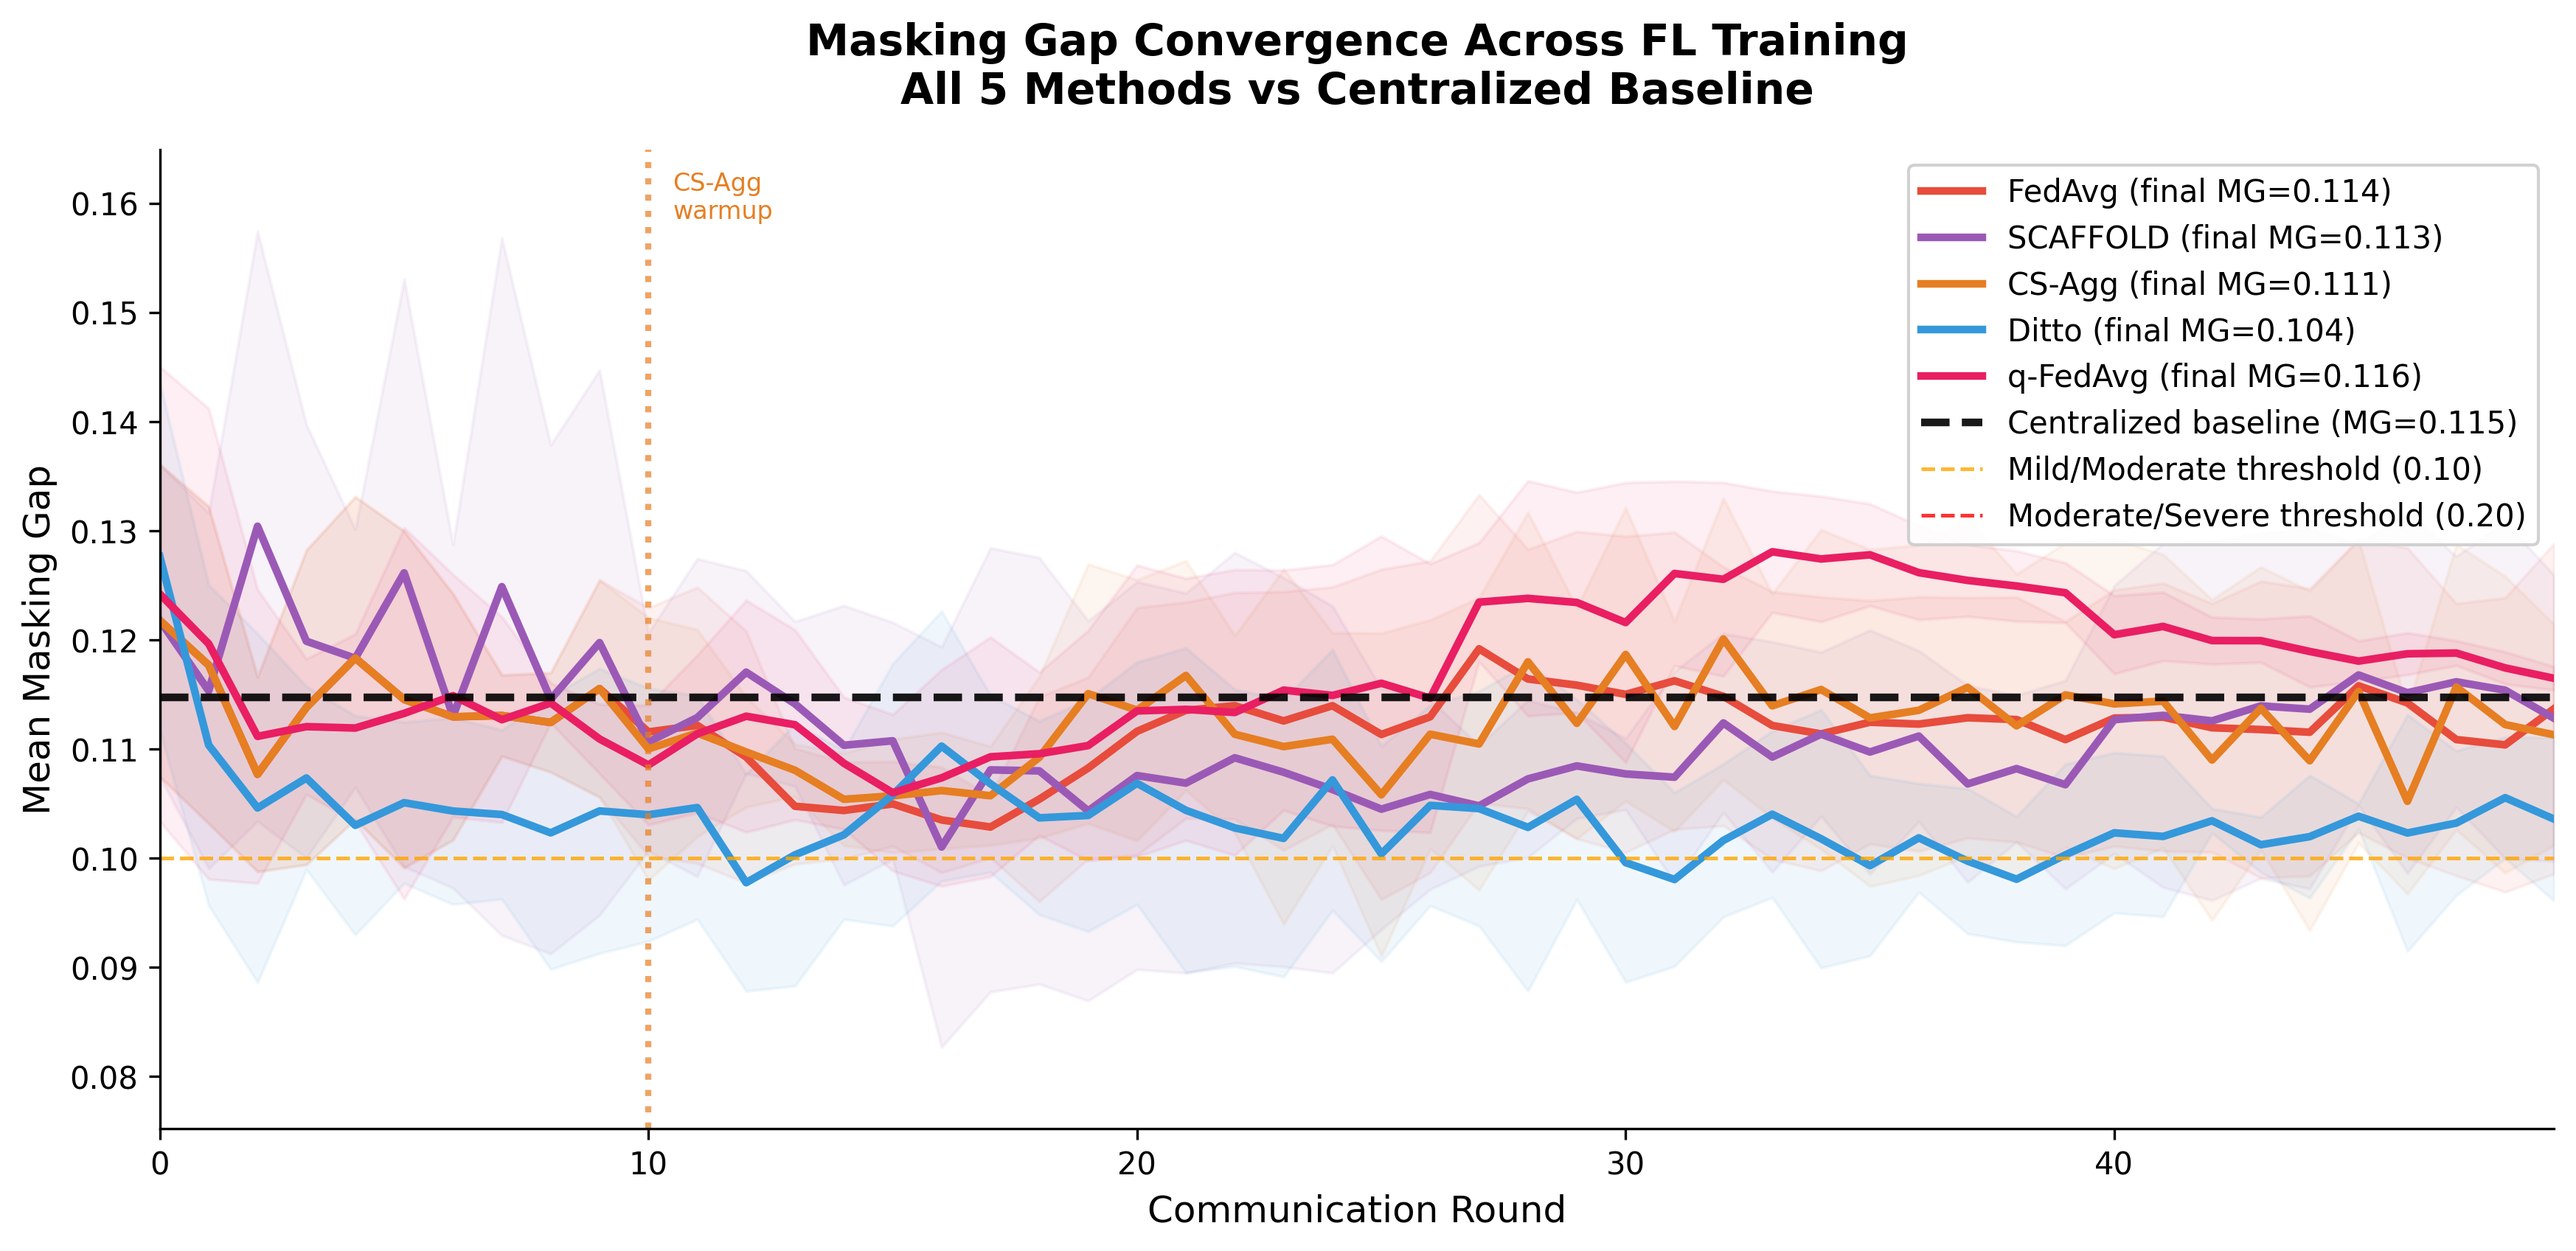
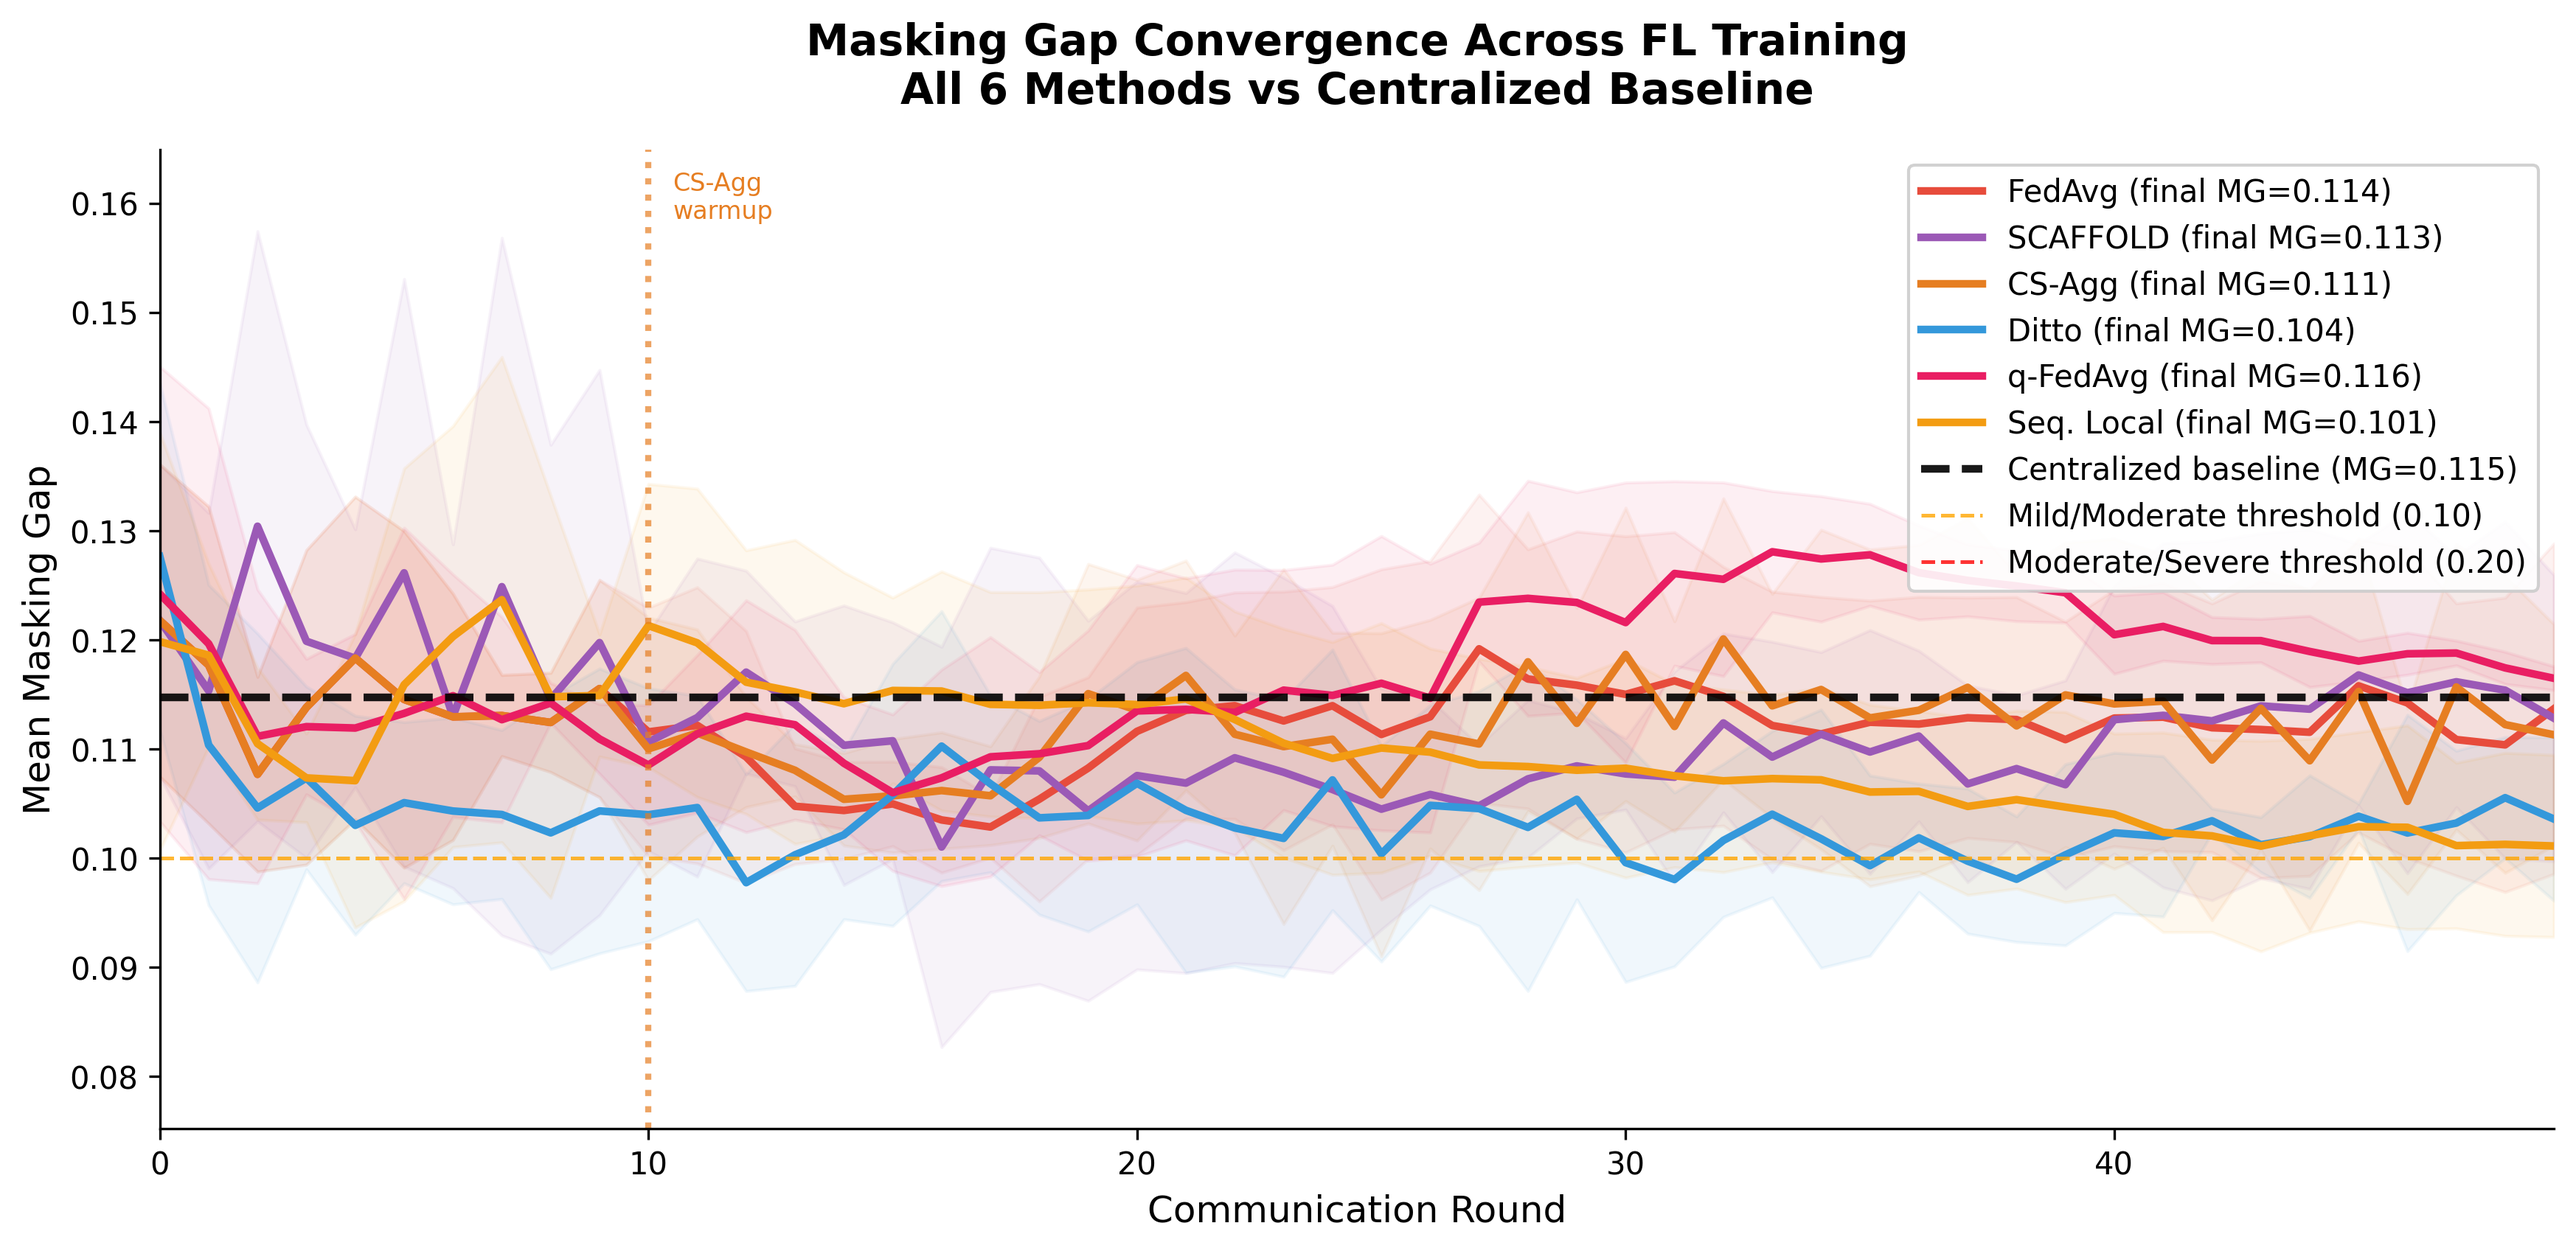
add C8 (seqlocal_fedavg) to fig2/fig3/fig6; fix fig3 title
FL_METHODS, FL_LABELS, FL_COLORS, METHOD_BAR_CFG, SEV_CFG, and BOOT_CFG all lacked seqlocal_fedavg, silently dropping C8 from fig2 bootstrap CI and fig3 convergence curves. Fig3 title corrected to All 6 Methods. C8 assigned amber (#F39C12) distinct from CS-Agg orange (#E67E22). fig6 severity tiers now includes the C8 column.

diff --git a/src/generate_figures.py b/src/generate_figures.py
@@ -36,11 +36,11 @@ SHAP_FEATS    = ['shap_RIDAGEYR', 'shap_RIAGENDR', 'shap_INDFMPIR',
                  'shap_RIDRETH3', 'shap_avg_sys', 'shap_avg_dia']
 FEAT_DISPLAY  = ['Age', 'Gender', 'Income\nRatio', 'Ethnicity', 'Systolic\nBP', 'Diastolic\nBP']
 
-FL_METHODS = ['fedavg', 'scaffold', 'csagg', 'ditto', 'qfedavg']
+FL_METHODS = ['fedavg', 'scaffold', 'csagg', 'ditto', 'qfedavg', 'seqlocal_fedavg']
 FL_LABELS  = {'fedavg': 'FedAvg', 'scaffold': 'SCAFFOLD', 'csagg': 'CS-Agg',
-              'ditto': 'Ditto', 'qfedavg': 'q-FedAvg'}
+              'ditto': 'Ditto', 'qfedavg': 'q-FedAvg', 'seqlocal_fedavg': 'Seq. Local'}
 FL_COLORS  = {'fedavg': '#E74C3C', 'scaffold': '#9B59B6', 'csagg': '#E67E22',
-              'ditto': '#3498DB', 'qfedavg': '#E91E63'}
+              'ditto': '#3498DB', 'qfedavg': '#E91E63', 'seqlocal_fedavg': '#F39C12'}
 
 # (method, final_round, bar_label, color)
 METHOD_BAR_CFG = [
@@ -51,6 +51,7 @@ METHOD_BAR_CFG = [
     ('csagg',                49,   "C5\nCS-Agg",               '#E67E22'),
     ('ditto',                49,   "C6\nDitto",                '#3498DB'),
     ('qfedavg',              49,   "C7\nq-FedAvg",             '#E91E63'),
+    ('seqlocal_fedavg',      49,   "C8\nSeq. Local",           '#F39C12'),
     ('federated_separate',   None, "C2-FL\nFed Sep.",          '#27AE60'),
 ]
 
@@ -64,6 +65,7 @@ SEV_CFG = [
     ('csagg',                49,   'C5\nCS-Agg'),
     ('ditto',                49,   'C6\nDitto'),
     ('qfedavg',              49,   'C7\nq-FedAvg'),
+    ('seqlocal_fedavg',      49,   'C8\nSeq. Local'),
 ]
 
 BOOT_CFG = [
@@ -74,6 +76,7 @@ BOOT_CFG = [
     ('csagg',                49,   'C5',    '#E67E22'),
     ('ditto',                49,   'C6',    '#3498DB'),
     ('qfedavg',              49,   'C7',    '#E91E63'),
+    ('seqlocal_fedavg',      49,   'C8',    '#F39C12'),
     ('federated_separate',   None, 'C2-FL', '#2ECC71'),
 ]
 
@@ -282,7 +285,7 @@ ax.set_ylim(y_lo, y_hi)
 ax.legend(fontsize=10, loc='upper right', framealpha=0.9)
 ax.set_title(
     "Masking Gap Convergence Across FL Training\n"
-    "All 5 Methods vs Centralized Baseline",
+    "All 6 Methods vs Centralized Baseline",
     fontsize=14, fontweight='bold', pad=15)
 plt.tight_layout(pad=2.0)
 savefig(os.path.join(figures_dir, 'fig3_convergence.png'),
